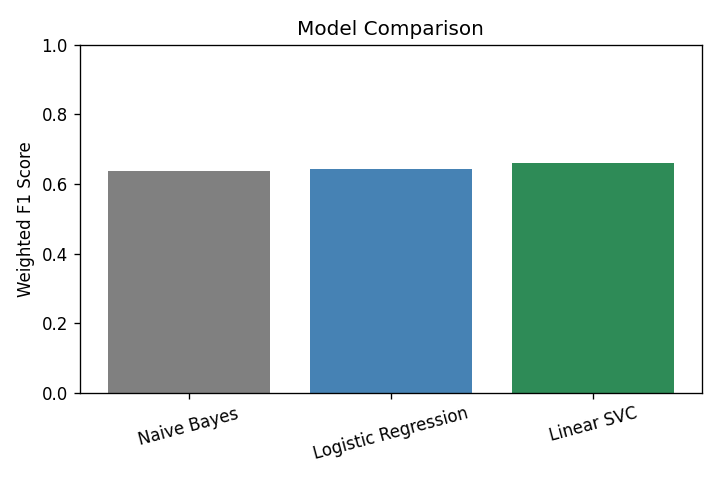
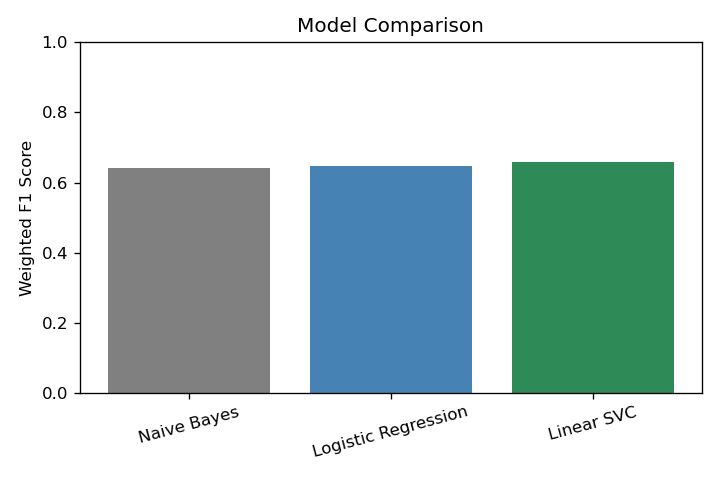
Expand README with results table and limitations/future work

diff --git a/README.md b/README.md
@@ -29,6 +29,23 @@ This project analyzes tweets about Apple and Google products (CrowdFlower SXSW T
 - **Explainability:** LIME was used to show which words drive individual predictions, and global feature importances were plotted per sentiment class.
 - **Recommendation:** Use the model as a first-pass triage tool to flag tweets (especially negative ones) for human review, and continue collecting negative-sentiment examples to improve minority-class performance.
 
+## Results
+
+| Model               | Weighted F1 |
+|---------------------|-------------|
+| Naive Bayes         | 0.638       |
+| Logistic Regression | 0.643       |
+| Linear SVC          | 0.661       |
+
+Linear SVC scored slightly higher on weighted F1, but **Logistic Regression** was selected as the final model since the difference is marginal and Logistic Regression offers calibrated probability outputs and easier interpretability for the explainability requirement.
+
+## Limitations & Future Work
+
+- The dataset is relatively small (~9,000 tweets) and imbalanced, with very few "Negative emotion" examples, which limits the model's ability to learn rare negative patterns.
+- A bag-of-words/TF-IDF approach cannot capture sarcasm, irony, or context-dependent sentiment.
+- The dataset is specific to one event (SXSW) and may not generalize to other contexts or time periods.
+- Future work: collect more labeled negative examples, experiment with transformer-based embeddings (e.g., BERT) for context-aware sentiment, and retrain periodically on fresh data.
+
 ## Setup
 
 ```bash